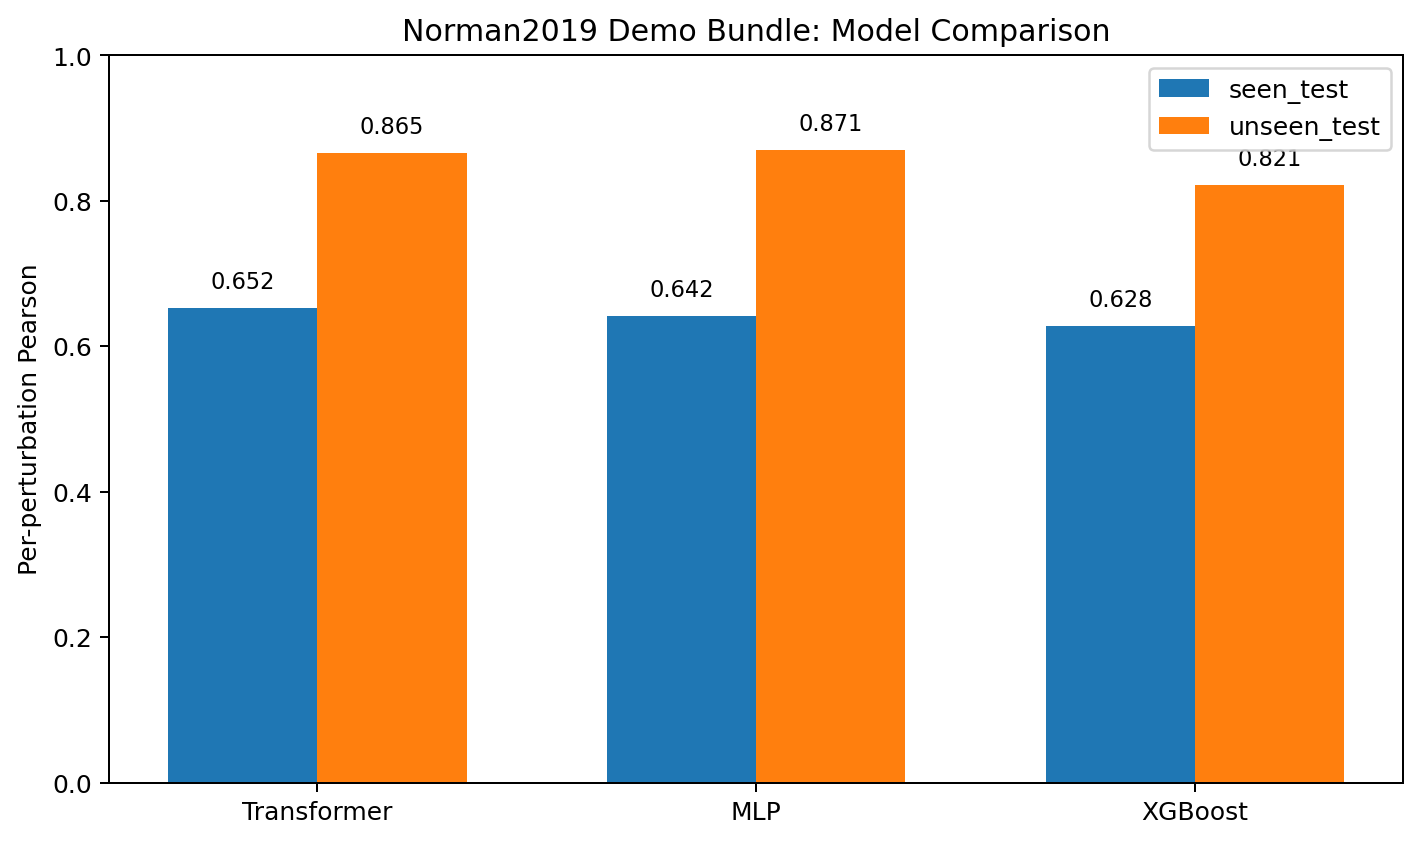
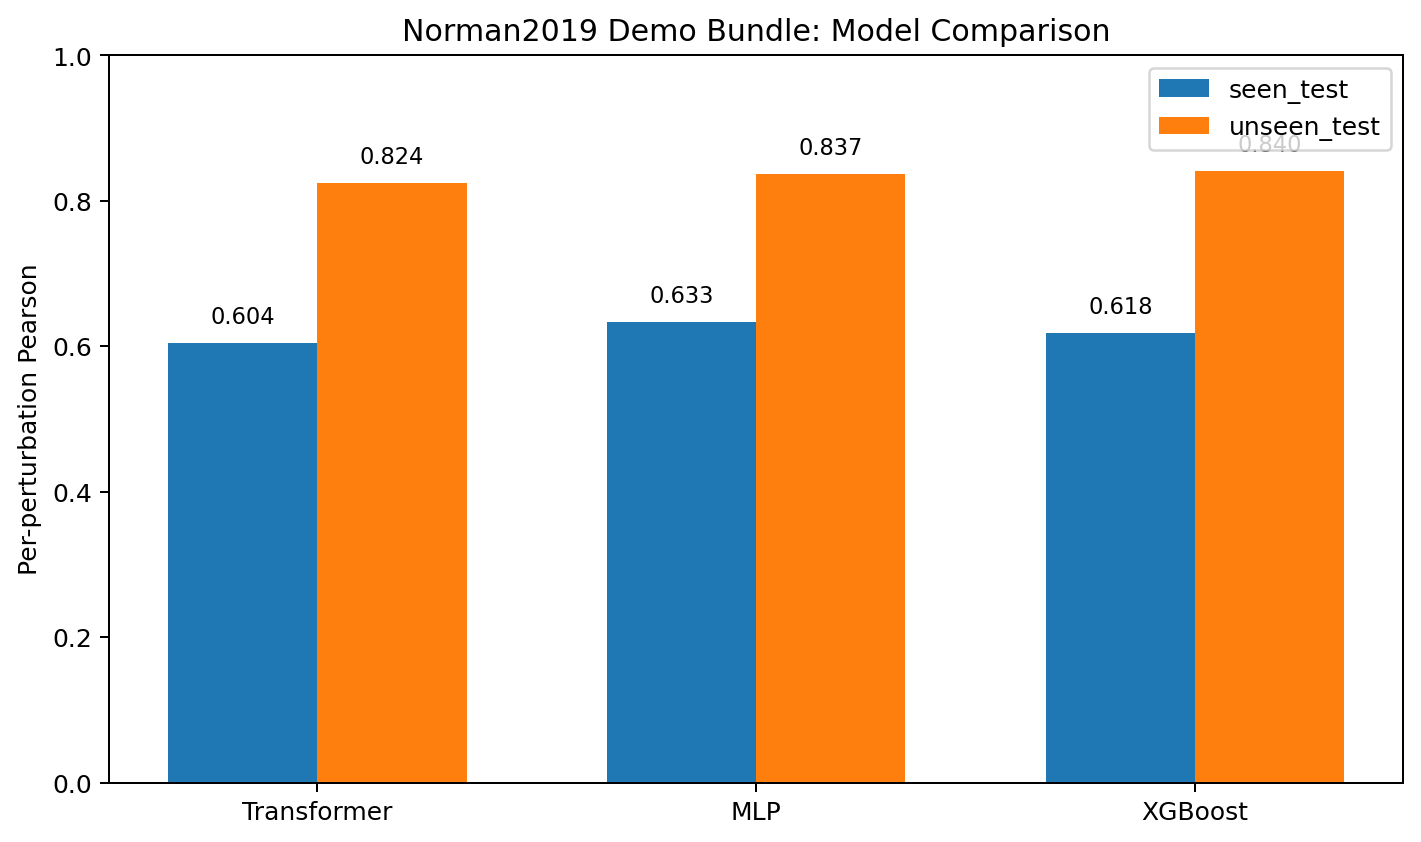
feat: add real Norman2019 results, figures, and top-k DEG overlap metrics
- Evaluate transformer on seen_test and unseen_test with DEG artifact:
    seen_test:   Pearson=0.604, top-20 DEG overlap=0.816, top-100=0.964
    unseen_test: Pearson=0.824, top-20 DEG overlap=0.930, top-100=0.976
- Generate MLP and XGBoost baselines on real data:
    MLP:     seen Pearson=0.633, unseen Pearson=0.837
    XGBoost: seen Pearson=0.618, unseen Pearson=0.840
- Add docs/assets/model_comparison_seen_norman2019_demo.png
- Update docs/assets/transformer_inference_preview.png (real data, JUN)
- Add 'Real Norman2019 results' section to README with metrics table,
  figures, and DEG overlap summary
- All three models achieve Pearson >= 0.82 on unseen perturbations

diff --git a/README.md b/README.md
@@ -253,6 +253,36 @@ For the offline synthetic showcase:
 ./scripts/run_generate_synthetic_showcase.sh
 ```
 
+### Real Norman2019 results
+
+The figures below are generated from the real Norman2019 dataset
+(`scPerturb / Norman2019`, K562, single-gene perturbations, 10,500 cells, 512 HVGs, 105 conditions).
+
+![Norman2019 model comparison](docs/assets/model_comparison_seen_norman2019_demo.png)
+
+| Model | Seen Test Pearson | Seen Test MSE | Unseen Test Pearson | Unseen Test MSE |
+| --- | ---: | ---: | ---: | ---: |
+| Transformer | 0.604 | 0.0071 | 0.824 | 0.0011 |
+| MLP | 0.633 | 0.0066 | 0.837 | 0.00085 |
+| XGBoost | 0.618 | 0.0066 | 0.840 | 0.00084 |
+
+Transformer top-k DEG overlap (seen_test / unseen_test):
+- top-20: 0.816 / 0.930
+- top-50: 0.914 / 0.953
+- top-100: 0.964 / 0.976
+
+![Norman2019 inference preview (JUN)](docs/assets/transformer_inference_preview.png)
+
+All three models achieve **Pearson ≥ 0.82** on unseen perturbations, indicating strong generalization.
+The Transformer top-100 DEG overlap of **0.96–0.98** confirms that predicted expression shifts
+identify the correct differentially expressed genes at high recall.
+
+Regenerate these figures after training with:
+
+```bash
+./scripts/run_generate_results_assets.sh
+```
+
 ### Real Norman2019 workflow
 
 Real Norman2019 raw data and generated artifact directories are intentionally not committed by default.
